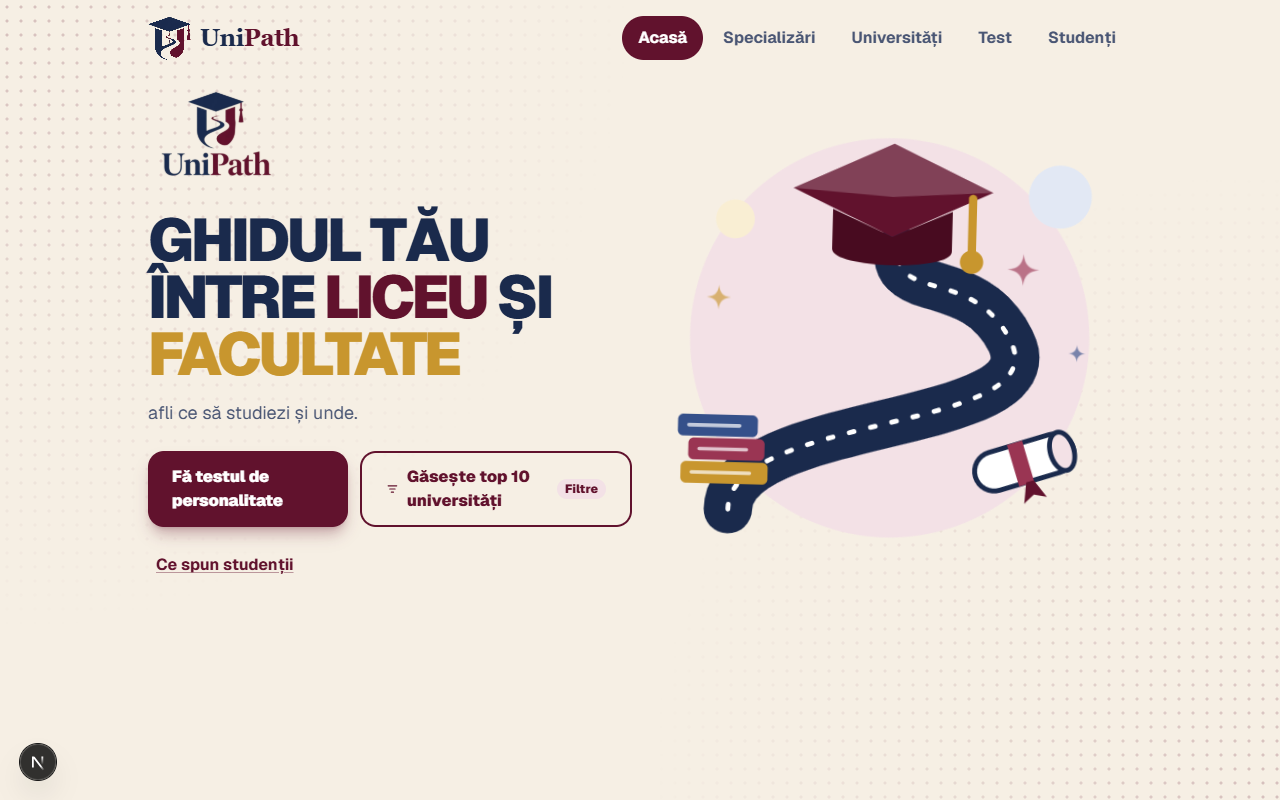
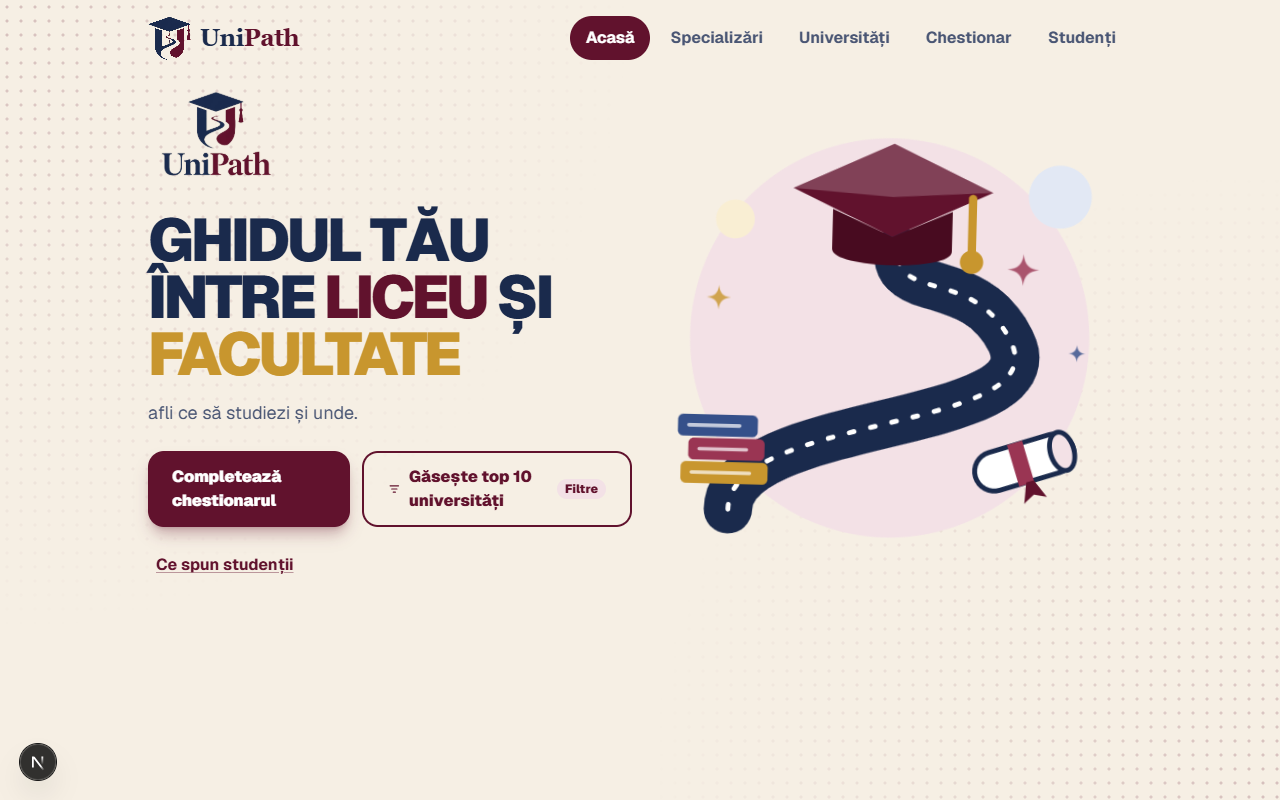
feat: call the personality test a questionnaire (chestionar) in the UI

diff --git a/apps/web/app/rezultat/page.tsx b/apps/web/app/rezultat/page.tsx
@@ -56,14 +56,14 @@ export default function ResultPage() {
   if (state.status === "empty") {
     return (
       <Shell>
-        <Notice title="Nu avem încă rezultate" text="Răspunde mai întâi la întrebări și apoi îți arătăm domeniile potrivite." href="/test" cta="Începe testul" />
+        <Notice title="Nu avem încă rezultate" text="Răspunde mai întâi la întrebări și apoi îți arătăm domeniile potrivite." href="/test" cta="Începe chestionarul" />
       </Shell>
     );
   }
   if (state.status === "error") {
     return (
       <Shell>
-        <Notice title="Ceva nu a mers" text="Nu am putut calcula rezultatele. Reia testul și încearcă din nou." href="/test" cta="Reia testul" />
+        <Notice title="Ceva nu a mers" text="Nu am putut calcula rezultatele. Reia chestionarul și încearcă din nou." href="/test" cta="Reia chestionarul" />
       </Shell>
     );
   }
@@ -118,7 +118,7 @@ export default function ResultPage() {
 
       <div className="mt-8 text-center">
         <Link href="/test" onClick={clearDraft} className="inline-flex min-h-12 items-center rounded-full border-2 border-primary px-8 py-3 font-black text-primary hover:bg-primary-tint">
-          Reia testul
+          Reia chestionarul
         </Link>
       </div>
     </Shell>

diff --git a/apps/web/app/test/page.tsx b/apps/web/app/test/page.tsx
@@ -9,7 +9,7 @@ import { Shell } from "@/components/Shell";
 import { saveDraft } from "@/lib/session";
 
 const steps = [
-  ["1", "Alegi profilul de liceu", "E prima întrebare din test.", "bg-primary-tint text-primary-dark"],
+  ["1", "Alegi profilul de liceu", "E prima întrebare din chestionar.", "bg-primary-tint text-primary-dark"],
   ["2", "Răspunzi la întrebări", "Sunt scurte și nu există răspunsuri greșite.", "bg-teal-tint text-teal-ink"],
   ["3", "Primești 3 domenii", "Cu procente, motive și facultăți unde poți studia.", "bg-violet-tint text-violet-ink"],
 ];
@@ -72,7 +72,7 @@ export default function Home() {
             onClick={start}
             className="min-h-14 w-full rounded-2xl bg-primary px-6 py-4 text-lg font-black text-white shadow-lg shadow-primary/30 transition hover:bg-primary-dark active:scale-[0.98] disabled:cursor-not-allowed disabled:bg-line disabled:text-ink-soft disabled:shadow-none"
           >
-            Începe testul
+            Începe chestionarul
           </button>
         </div>
       </div>

diff --git a/apps/web/lib/match.ts b/apps/web/lib/match.ts
@@ -133,7 +133,7 @@ function rank(
       const shared = TRAITS.some((t) => (profile.traits[t] ?? 0) >= 2 && dv[t] >= 2);
       if (shared) reasons.push(`Profilul tău de liceu (${profile.name}) te pregătește bine pentru acest domeniu.`);
     }
-    if (reasons.length < 2) reasons.push("Domeniul se potrivește cu ce ai ales în test.");
+    if (reasons.length < 2) reasons.push("Domeniul se potrivește cu ce ai ales în chestionar.");
 
     const offered = universities.filter((u) => u.domainIds.includes(domain.id));
     const ro = offered.filter((u) => u.region === "ro").sort((a, b) => a.city.localeCompare(b.city, "ro") || a.name.localeCompare(b.name, "ro"));

diff --git a/apps/web/app/page.tsx b/apps/web/app/page.tsx
@@ -21,7 +21,7 @@ export default function Home() {
               href="/test"
               className="inline-flex min-h-12 items-center justify-center rounded-2xl bg-primary px-6 py-3 font-black text-white shadow-lg shadow-primary/30 transition hover:bg-primary-dark active:scale-[0.98]"
             >
-              Fă testul de personalitate
+              Completează chestionarul
             </Link>
             <Link
               href="/universitati"

diff --git a/apps/web/app/studenti/page.tsx b/apps/web/app/studenti/page.tsx
@@ -32,7 +32,7 @@ export default function Students() {
           href="/test"
           className="inline-block rounded-2xl bg-primary px-6 py-3 font-bold text-white shadow-lg shadow-primary/30 hover:bg-primary-dark"
         >
-          Fă testul și află ce ți se potrivește
+          Completează chestionarul și află ce ți se potrivește
         </Link>
       </div>
     </Shell>

diff --git a/apps/web/components/NavLinks.tsx b/apps/web/components/NavLinks.tsx
@@ -7,7 +7,7 @@ const LINKS = [
   ["/", "Acasă"],
   ["/specializari", "Specializări"],
   ["/universitati", "Universități"],
-  ["/test", "Test"],
+  ["/test", "Chestionar"],
   ["/studenti", "Studenți"],
 ] as const;
 

diff --git a/docs/LEDGER.md b/docs/LEDGER.md
@@ -21,6 +21,13 @@ lista de commit-uri de la final se reface singură.
 - Urmează: pasul următor
 -->
 
+### 2026-10-04 23:35 — „test” devine „chestionar”
+- Cerut: cuvântul „test” să fie înlocuit cu „chestionar”. Înainte: versiunea cu căutarea de la „Studenți” și pagina principală fără bara de căutare publicată la cererea echipei și verificată pe adresa publică
+- Făcut: în meniu „Chestionar”; butoanele „Completează chestionarul”, „Începe chestionarul”, „Reia chestionarul”; textele care vorbeau despre testul nostru. Adresa paginii rămâne `/test`. Cuvântul „test” rămâne acolo unde e vorba de testele de admitere ale universităților
+- Fișiere: `apps/web/components/NavLinks.tsx`, `apps/web/app/{page,test/page,rezultat/page,studenti/page}.tsx`, `apps/web/lib/match.ts`
+- Poartă: TRECUT (build, 55 teste, pornire); traseul complet parcurs într-un browser separat, pe laptop și la lățime de telefon, cu butoanele noi; pagina principală văzută în captură la lățime de telefon. Nepublicat
+- Urmează: publicare la cererea echipei; `/pitch`
+
 ### 2026-10-04 23:20 — bara de căutare scoasă de pe pagina principală
 - Cerut: de pe prima pagină să dispară bara de căutare
 - Făcut: căsuța de căutare scoasă din `/`; căutarea de universități rămâne pe `/universitati` (din meniu sau din butonul „Găsește top 10 universități”)
@@ -227,6 +234,7 @@ lista de commit-uri de la final se reface singură.
 ## Commit-uri (automat)
 
 <!-- commits:start -->
+- 2026-10-04 23:02 `46df569` feat: remove the search box from the home page
 - 2026-10-04 22:57 `956d89f` feat: search student opinions by faculty or university
 - 2026-10-04 22:45 `9ca0e28` feat: ask the high-school profile as the first step of the test
 - 2026-10-04 22:30 `564932a` feat: keep specializations only on their own page, not on the home page
@@ -256,5 +264,4 @@ lista de commit-uri de la final se reface singură.
 - 2026-10-04 12:06 `6a9379d` docs: confirm data coverage by study domain
 - 2026-10-04 12:05 `72dd44b` docs: lock the chosen idea, ideation report and stack
 - 2026-10-04 00:14 `018e7d7` docs: move the team guide to the repo root
-- 2026-10-04 00:13 `3d0f662` docs: bring ledger and map up to date
 <!-- commits:end -->
